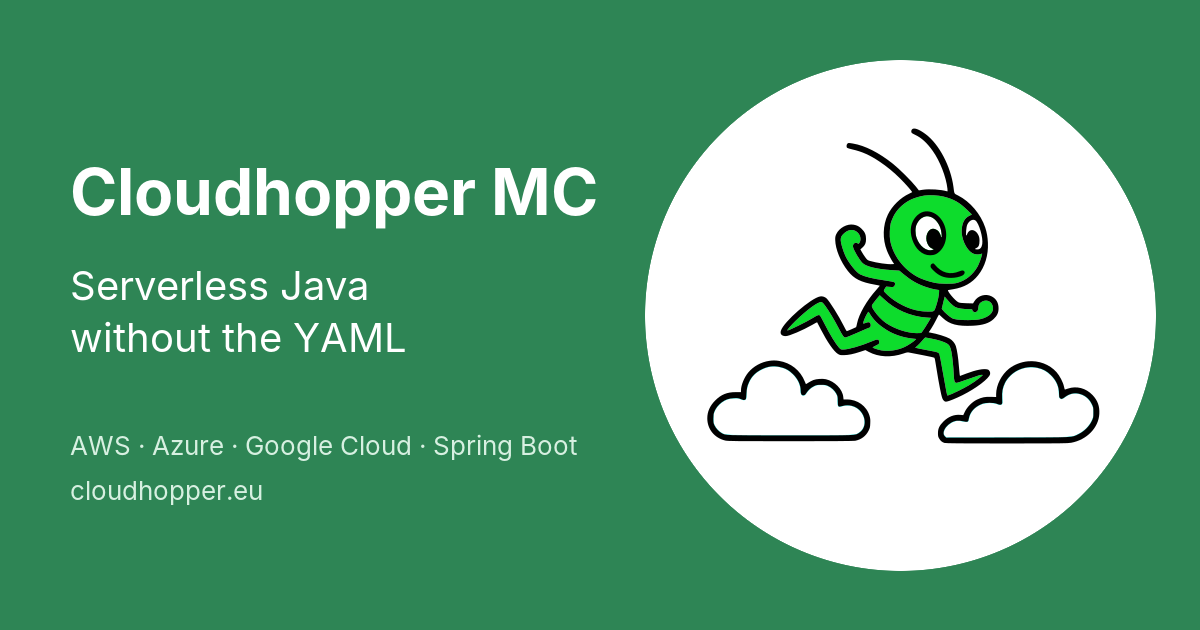
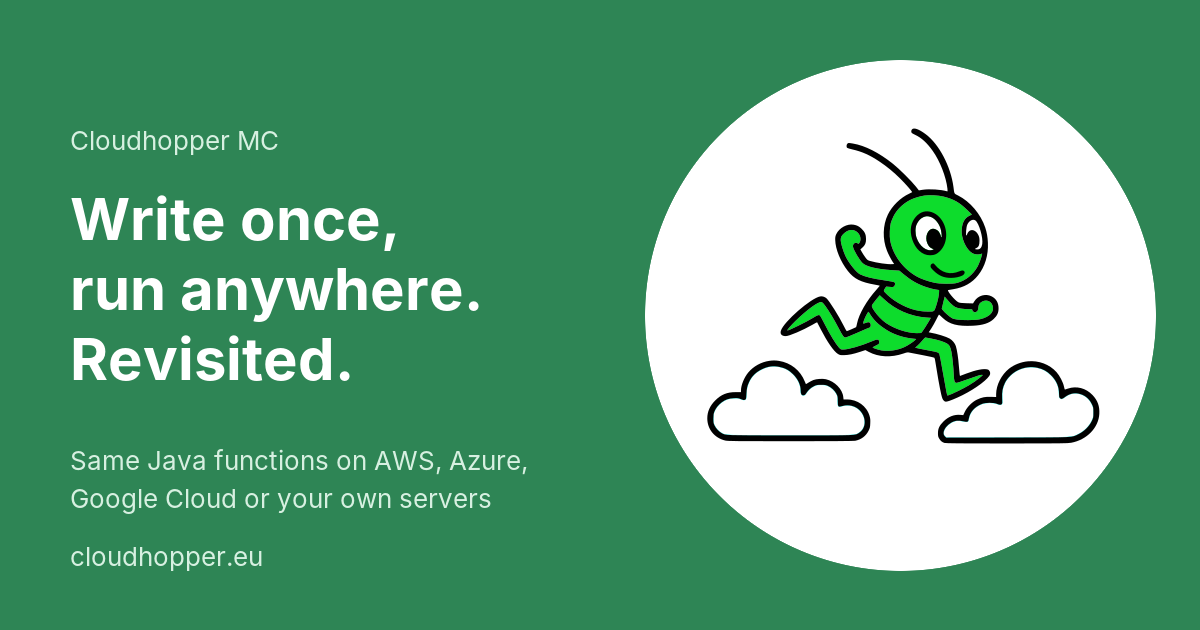
Website: lead with portability ("write once, run anywhere, revisited")
- Hero: same code, the provider is a build setting; cost, EU and
  on-premise as the reasons to switch; four build commands side by side.
- Features: switch on cost, no cloud SDK in your code, EU region or own
  servers; providers plug in through the generator SPI.
- Honest footnote: the Spring Boot target serves HTTP functions only,
  scheduled functions run on the three clouds.
- Roadmap: European cloud provider next. Tagline, meta description and
  social card updated.

Claude-Session: https://claude.ai/code/session_016mtEyVvir29iLfXoCBauPU

diff --git a/docs/src/components/HomepageFeatures/index.js b/docs/src/components/HomepageFeatures/index.js
@@ -1,38 +1,39 @@
 import clsx from 'clsx';
+import Link from '@docusaurus/Link';
 import Heading from '@theme/Heading';
 import styles from './styles.module.css';
 
 const FeatureList = [
   {
-    title: 'Plain Java methods',
-    Svg: require('@site/static/img/relax.svg').default,
-    description: (
-      <>
-        Mark a method with <code>@Function</code> and an HTTP or cron trigger.
-        You never implement a cloud SDK interface: an annotation processor
-        generates the provider-specific handler classes for you.
-      </>
-    ),
-  },
-  {
-    title: 'One code base, several targets',
+    title: 'Too expensive? Switch.',
     Svg: require('@site/static/img/hop.svg').default,
     description: (
       <>
-        AWS, Azure, Google Cloud, or a Spring Boot HTTP application for on-premise
-        installations. Pick the target with a Maven profile and try another
-        provider without rewriting your functions.
+        The provider is a Maven profile. Build for another cloud, deploy,
+        compare the bill. Your functions stay exactly as they are.
       </>
     ),
   },
   {
-    title: 'Infrastructure generated from your code',
+    title: 'No cloud SDK in your code',
     Svg: require('@site/static/img/java.svg').default,
     description: (
       <>
-        Terraform and OpenAPI come from the same annotations, from
-        configurable templates. Deploy them with your own pipeline, or with
-        the Maven profile that runs Terraform for you.
+        Functions are plain Java methods with <code>@Function</code> and a
+        trigger. Handler classes, Terraform and API descriptions are generated
+        at compile time, so nothing in your code ties you to one vendor.
+      </>
+    ),
+  },
+  {
+    title: 'EU or on-premise, just another target',
+    Svg: require('@site/static/img/relax.svg').default,
+    description: (
+      <>
+        Deploy to an EU region of your cloud, or run the Spring Boot target on
+        your own servers. Providers plug in through
+        an <Link to="/docs/modules/deployment-config-generator-api">SPI</Link>,
+        and a European cloud provider is next.
       </>
     ),
   },
@@ -61,6 +62,12 @@ export default function HomepageFeatures() {
             <Feature key={idx} {...props} />
           ))}
         </div>
+        <p className={clsx('text--center', styles.footnote)}>
+          Not every trigger exists on every target yet: the Spring Boot target
+          serves HTTP functions, scheduled functions run on the three clouds.
+          The <Link to="/docs/platforms/generator-overview">provider overview</Link> lists
+          the differences.
+        </p>
       </div>
     </section>
   );

diff --git a/docs/src/pages/index.js b/docs/src/pages/index.js
@@ -17,22 +17,29 @@ const EXAMPLE = `public class HelloFunction {
     }
 }`;
 
-const BUILD = `mvn clean install -Paws-terraform
-# or -Pgcp-terraform, -Pazure-terraform, -Pspringboot-http`;
+const BUILD = `# Same code, different provider:
+mvn clean install -Paws-terraform
+mvn clean install -Pazure-terraform
+mvn clean install -Pgcp-terraform
+mvn clean install -Pspringboot-http   # on-premise`;
 
 function HomepageHeader() {
   return (
     <header className={clsx('hero hero--primary', styles.heroBanner)}>
       <div className={clsx('container', styles.heroGrid)}>
         <div className={styles.heroText}>
+          <p className={styles.eyebrow}>Java's old promise, for serverless</p>
           <Heading as="h1" className="hero__title">
-            Serverless Java without the YAML
+            Write once, run anywhere. Revisited.
           </Heading>
           <p className="hero__subtitle">
-            Write plain Java methods with a few annotations. At compile time,
-            Cloudhopper MC generates the cloud-specific handler classes and the
-            deployment files for AWS Lambda, Azure Functions, Google Cloud
-            Functions or a Spring Boot service on your own servers.
+            Your functions don't know which cloud they run on. One provider got
+            too expensive? Data has to stay in the EU? The customer wants it
+            on-premise? Change the target in your build, not your code.
+          </p>
+          <p className={styles.heroTargets}>
+            Targets: AWS Lambda, Azure Functions, Google Cloud Functions, and a
+            Spring Boot service that runs on any server.
           </p>
           <div className={styles.buttons}>
             <Link
@@ -111,7 +118,7 @@ export default function Home() {
   const {siteConfig} = useDocusaurusContext();
   return (
     <Layout
-      title="Serverless Java without the YAML"
+      title="Write once, run anywhere. Revisited."
       description={siteConfig.customFields.description}>
       <HomepageHeader />
       <main>

diff --git a/docs/docusaurus.config.js b/docs/docusaurus.config.js
@@ -5,14 +5,14 @@ import {themes as prismThemes} from 'prism-react-renderer';
 /** @type {import('@docusaurus/types').Config} */
 const config = {
     title: 'Cloudhopper MC',
-    tagline: 'Serverless Java without the YAML',
+    tagline: 'Write once, run anywhere. Revisited for serverless Java.',
     favicon: 'img/favicon.ico',
 
     customFields: {
         description:
-            'Cloudhopper MC generates cloud-specific handler classes, Terraform and OpenAPI ' +
-            'from annotated Java methods, for AWS Lambda, Azure Functions, Google Cloud ' +
-            'Functions or a Spring Boot service. Open source by Dukehoff GmbH.',
+            'Write once, run anywhere, revisited: Cloudhopper MC deploys the same annotated Java functions ' +
+            'to AWS Lambda, Azure Functions, Google Cloud Functions or a Spring Boot service on your own ' +
+            'servers. Switching providers is a build setting. Open source by Dukehoff GmbH.',
     },
 
     // Set the production url of your site here

diff --git a/docs/src/pages/index.module.css b/docs/src/pages/index.module.css
@@ -66,3 +66,17 @@
     gap: 1.5rem;
   }
 }
+
+.eyebrow {
+  margin-bottom: 0.5rem;
+  font-size: 0.95rem;
+  font-weight: 600;
+  letter-spacing: 0.04em;
+  text-transform: uppercase;
+  opacity: 0.85;
+}
+
+.heroTargets {
+  font-size: 1rem;
+  opacity: 0.9;
+}

diff --git a/docs/src/components/HomepageFeatures/styles.module.css b/docs/src/components/HomepageFeatures/styles.module.css
@@ -9,3 +9,10 @@
   height: 200px;
   width: 200px;
 }
+
+.footnote {
+  max-width: 46rem;
+  margin: 1rem auto 0;
+  font-size: 0.9rem;
+  color: var(--ifm-color-emphasis-700);
+}
